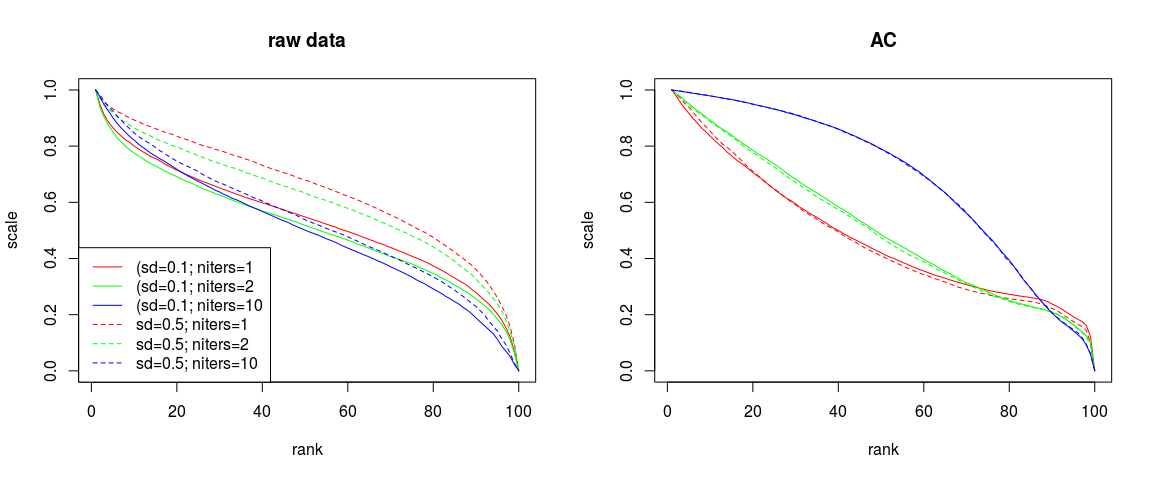
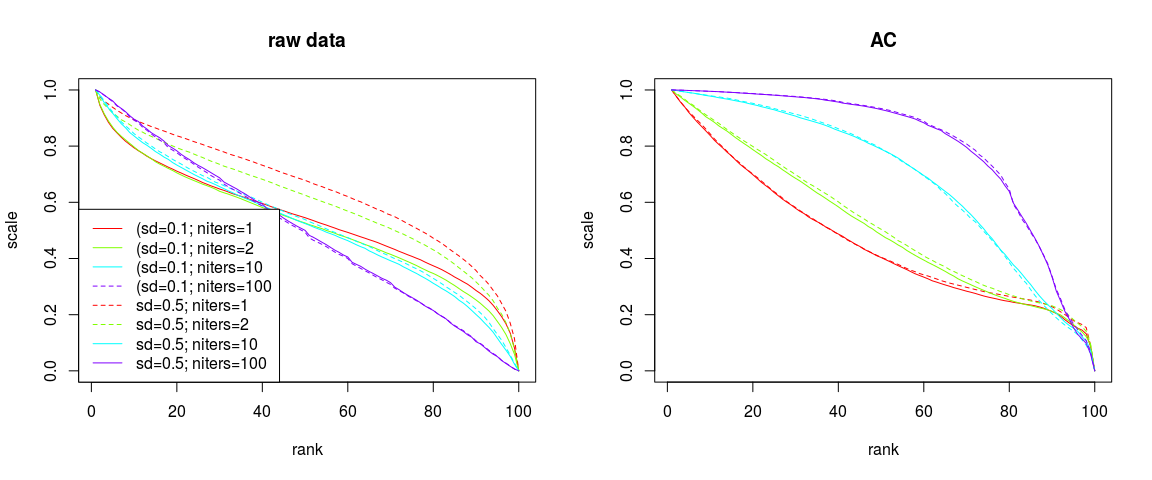
update readme

diff --git a/README.md b/README.md
@@ -115,7 +115,7 @@ ploty (nlayers, yi)
 title (main=paste ("ives"))
 ```
 
-![](fig/ives-vs-brown-plot.png)
+![](README_files/figure-markdown_github/ives-vs-brown-plot-1.png)
 
 And the difference is clearly that Brown is able to respond to differences in numbers of layers, while Ives remains entirely invariant. In other words, the model of Ives et al (1997) may *not* be used as a neutral model because it is does not respond to structural differences!
 
@@ -140,7 +140,7 @@ ploty (sd0, yi)
 title (main=paste ("ives"))
 ```
 
-![](fig/ives-vs-brown-plot2.png)
+![](README_files/figure-markdown_github/ives-vs-brown-plot2-1.png)
 
 And again, Ives does respond, but only marginally compared to Brown. Moreover, since the product of two normal distributions is also a normal distribution, changes in `nlayers` within the model of Brown et al (1995) are the same as changes in the distributional variance, and so only one of these parameters needs to be considered. The following graphs also include a Poisson distribution for comparison.
 
@@ -174,7 +174,7 @@ legend ("bottomleft", lwd=1, col=c (rep (cols, 2), "black"),
         lty=c (1,1,1,2,2,2,1), legend=ltxt)
 ```
 
-![](fig/brown-plot.png)
+![](README_files/figure-markdown_github/brown-plot-1.png)
 
 It's obviously far more computationally efficient to consider variance rather than `nlayers`, and this also seems to allow a greater range of possible forms of response. Moreover, the response with increasing variance clearly approaches a Poisson distribution.
 
@@ -303,25 +303,25 @@ Then manually check the values
 z2 [1]; (1-alpha) * z1 [1] + alpha * (z1 [2] + z1 [11]) / 2
 ```
 
-    ## [1] 0.9297134
+    ## [1] 0.9285718
 
-    ## [1] 0.9297134
+    ## [1] 0.9285718
 
 ``` r
 z2 [2]; (1-alpha) * z1 [2] + alpha * (z1 [1] + z1 [3] + z1 [12]) / 3
 ```
 
-    ## [1] 1.103574
+    ## [1] 1.105333
 
-    ## [1] 1.103574
+    ## [1] 1.105333
 
 ``` r
 z2 [15]; (1-alpha) * z1 [15] + alpha * (z1 [5] + z1 [14] + z1 [16] + z1 [25]) / 4
 ```
 
-    ## [1] 0.4677977
+    ## [1] 1.274294
 
-    ## [1] 0.4677977
+    ## [1] 1.274294
 
 The final function definition
 
@@ -430,7 +430,7 @@ par (mfrow=c(1,2))
 doplots ()
 ```
 
-![](fig/brown-space-plots.png)
+![](README_files/figure-markdown_github/brown-space-plots-1.png)
 
 Then repeat for log-scaled values
 
@@ -452,12 +452,12 @@ par (mfrow=c(1,2))
 doplots ()
 ```
 
-![](fig/brown-space-log-plots.png)
+![](README_files/figure-markdown_github/brown-space-log-plots-1.png)
 
 And then examine the effect of multiple iterations of spatial autocorrelation
 
 ``` r
-niters <- c (1, 2, 10)
+niters <- c (1, 2, 10, 100)
 log_scale <- TRUE
 sd0 <- 0.5
 alpha <- 0.5
@@ -496,7 +496,7 @@ for (j in 1:length (niters))
 }
 ```
 
-![](fig/brown-niters-plots.png)
+![](README_files/figure-markdown_github/brown-niters-plots-1.png)
 
 ... up to the interpretation here ...
 
@@ -523,7 +523,7 @@ test1 <- rcpp_neutral_hotspots_ntests (nbs=nbs, wts=wts, alpha_t=0.1,
 ```
 
     ##    user  system elapsed 
-    ##   0.584   0.000   0.583
+    ##   0.584   0.004   0.587
 
 Then write an equivalent `R` `lapply` version
 
@@ -546,7 +546,7 @@ system.time ( test2 <- rloop (ntests=ntests))
 ```
 
     ##    user  system elapsed 
-    ##   0.732   0.004   0.734
+    ##   0.640   0.000   0.641
 
 And then an `R`-internal parallel version. First the slightly different function definition:
 
@@ -591,7 +591,7 @@ system.time (test3 <- rParloop (ntests=ntests))
 ```
 
     ##    user  system elapsed 
-    ##   0.020   0.004   0.455
+    ##   0.016   0.008   0.417
 
 ``` r
 stopCluster (clust)
@@ -605,7 +605,7 @@ lines (1:length (nbs), test3 [,2], col="gray")
 legend ("topright", lwd=1, col=c("black", "gray"), bty="n", legend=c("z", "ac"))
 ```
 
-![](fig/plot-parallel.png)
+![](README_files/figure-markdown_github/plot-parallel-1.png)
 
 The parallel version does not of course generate identical results, because each core starts with its own random seed, but nevertheless after
 
@@ -623,7 +623,7 @@ max (abs (test1 - test2)); max (abs (test1 - test3))
 
     ## [1] 1.665335e-15
 
-    ## [1] 0.004096253
+    ## [1] 0.003266344
 
 The first of these is mere machine rounding tolerance; the second is a measure of convergence of randomised mean profiles.
 
